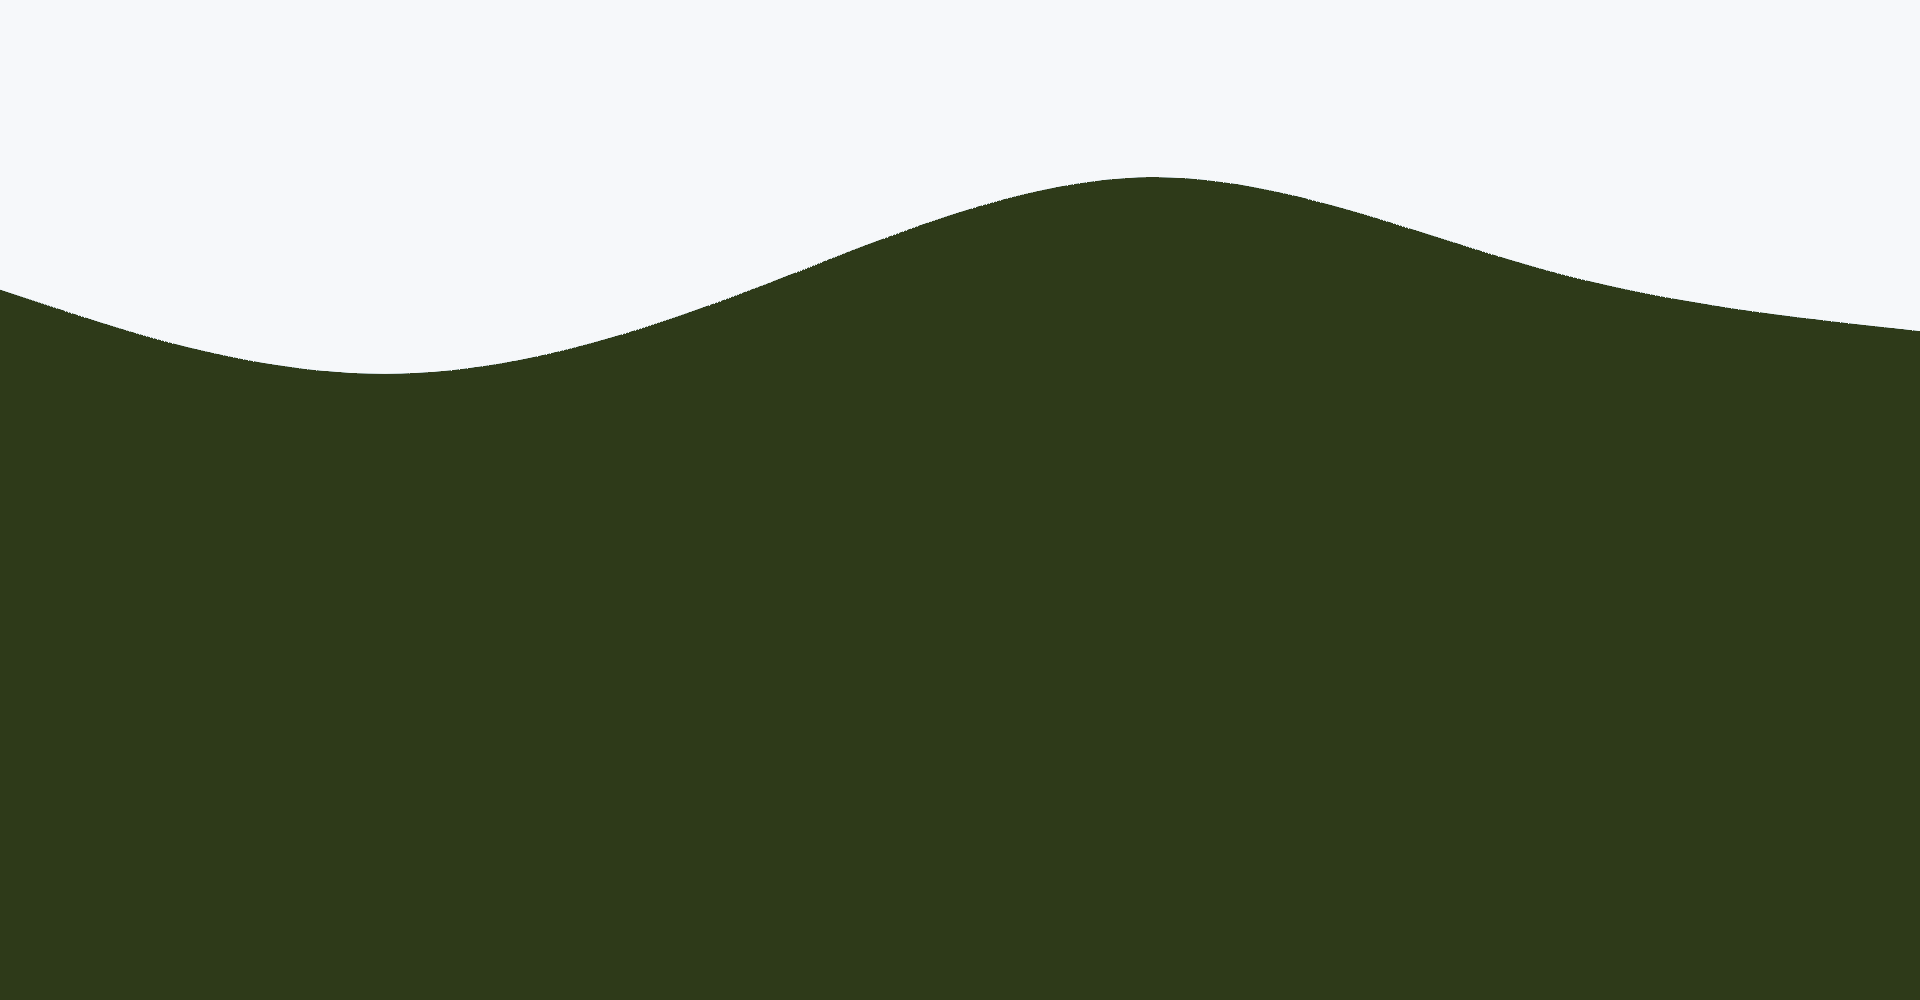
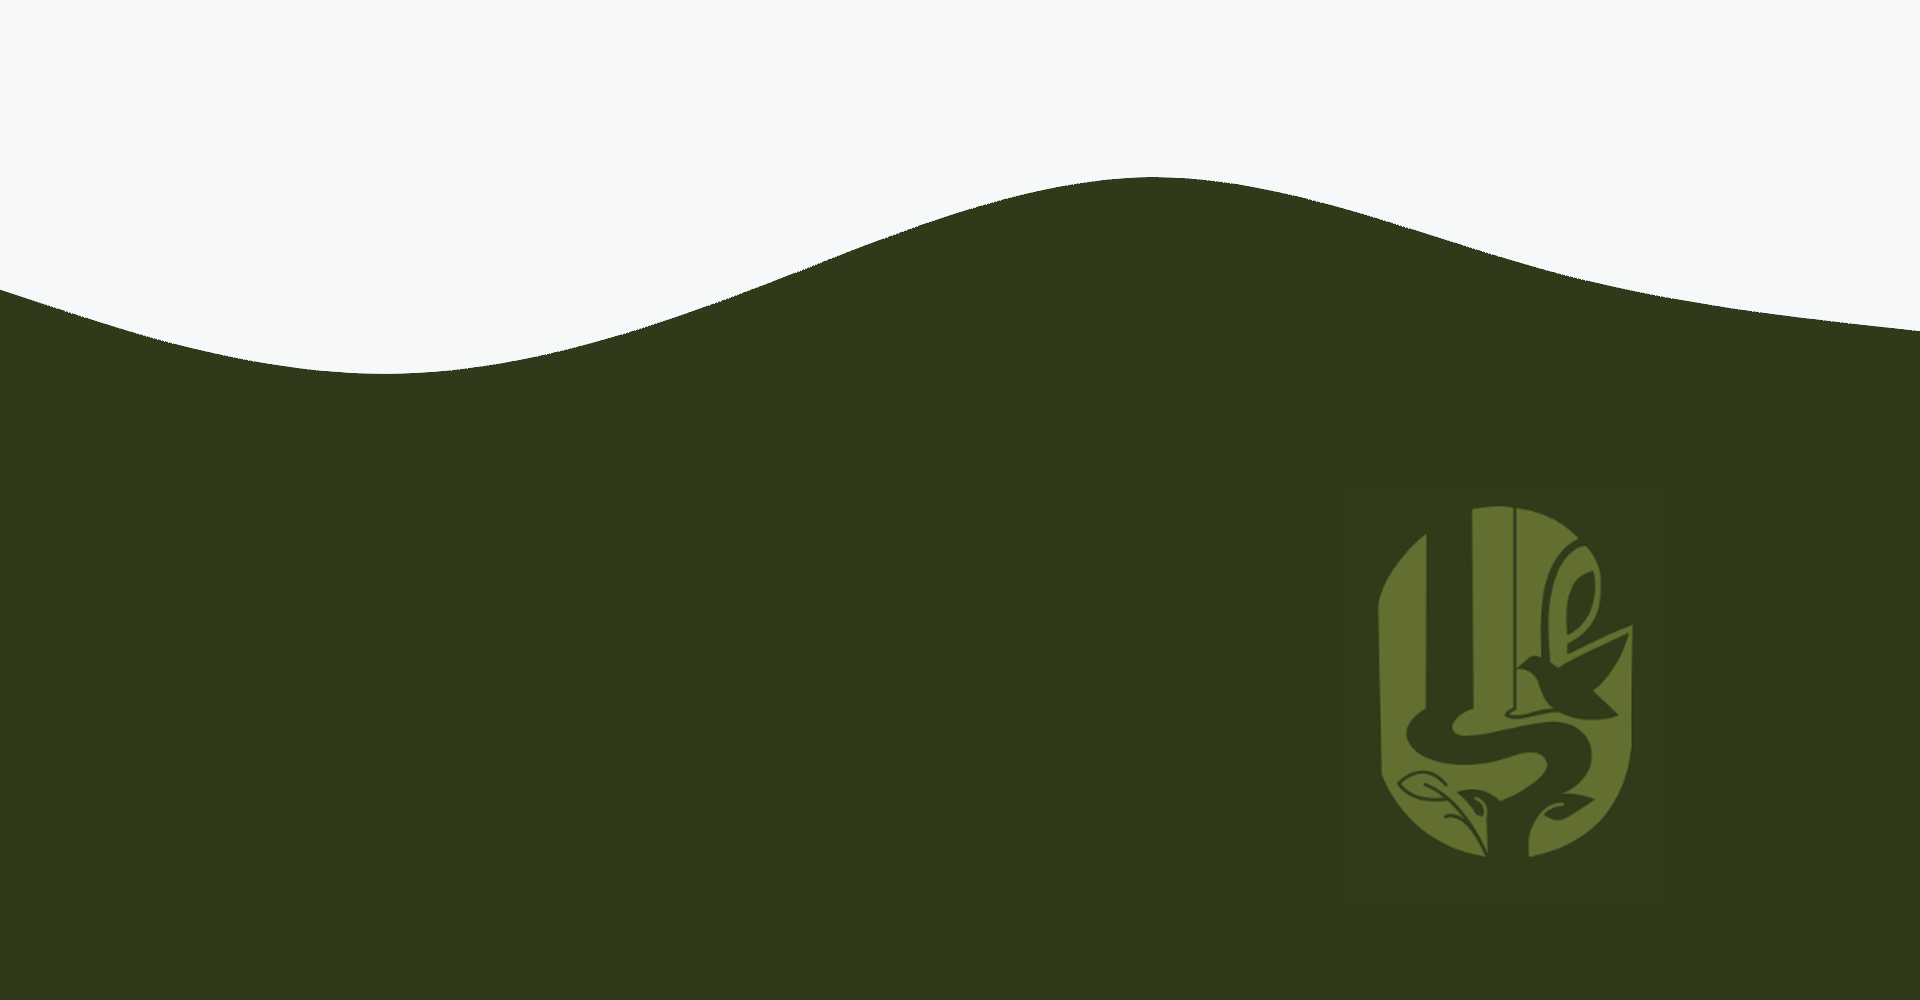
Added footer no form yet

Changed region(s): [[0.7188, 0.496, 0.875, 0.868]]

diff --git a/index.html b/index.html
@@ -35,7 +35,26 @@
     </article>
 
     <footer>
+        <div class="footerAbout">
+            <h3>ABOUT</h3>
+            <p>SAFFY, Inc. stands for <strong>Social Actions For Filipino Youth</strong>, this group was founded to create alternative sources of livelihood for impoverished women and youth in marginalized areas in the Philippines. <a href="">KNOW MORE</a> </p>  
+        </div>
 
+        <div class="footerPartner">
+            <h3>OUR PARTNERS</h3>
+            <ul>
+                <li><a href="">Partner 1</a></li>
+                <li><a href="">Partner 2</a></li>
+                <li><a href="">Partner 3</a></li>
+                <li><a href="">Partner 4</a></li>
+            </ul>  
+        </div>
+
+        <form action="">
+            <h3>ASK US A QUESTION</h3>
+            <input type="text" id="fname" name="fname" value="John"><br>
+            <input type="text" id="lname" name="lname" value="Doe"><br><br>
+        </form>
     </footer>
 </body>
 

diff --git a/styles.css b/styles.css
@@ -66,10 +66,54 @@ article h3{
 
 footer{
     margin: 0;
-    height: 100px;
     height: 1000px;
     background-color: #2e3a19;
     background-image: url("static/footer.png");
     background-repeat: no-repeat;
     background-size: cover;
+}
+
+.footerAbout{
+    color: #fefffe;
+    margin: 600px 100px 0px 100px;
+    float: left;
+    width: 200px;
+}
+
+footer h3{
+    color: #d9a11c;
+}
+
+.footerAbout a{
+    text-decoration: none;
+    color: #d9a11c;
+}
+
+.footerAbout a:hover{
+    text-decoration: underline;
+    color: #d9a11c;
+}
+
+.footerPartner{
+    color: #fefffe;
+    margin: 600px 100px 0px 100px;
+    float: left;
+    width: 200px;
+}
+
+.footerPartner ul{
+    list-style: none;
+}
+
+.footerPartner ul li{
+    margin-top: 10px;
+}
+
+.footerPartner ul li a{
+    text-decoration: none;
+    color: #d9a11c;
+}
+
+.footerPartner ul li a:hover{
+    text-decoration: underline;
 }
